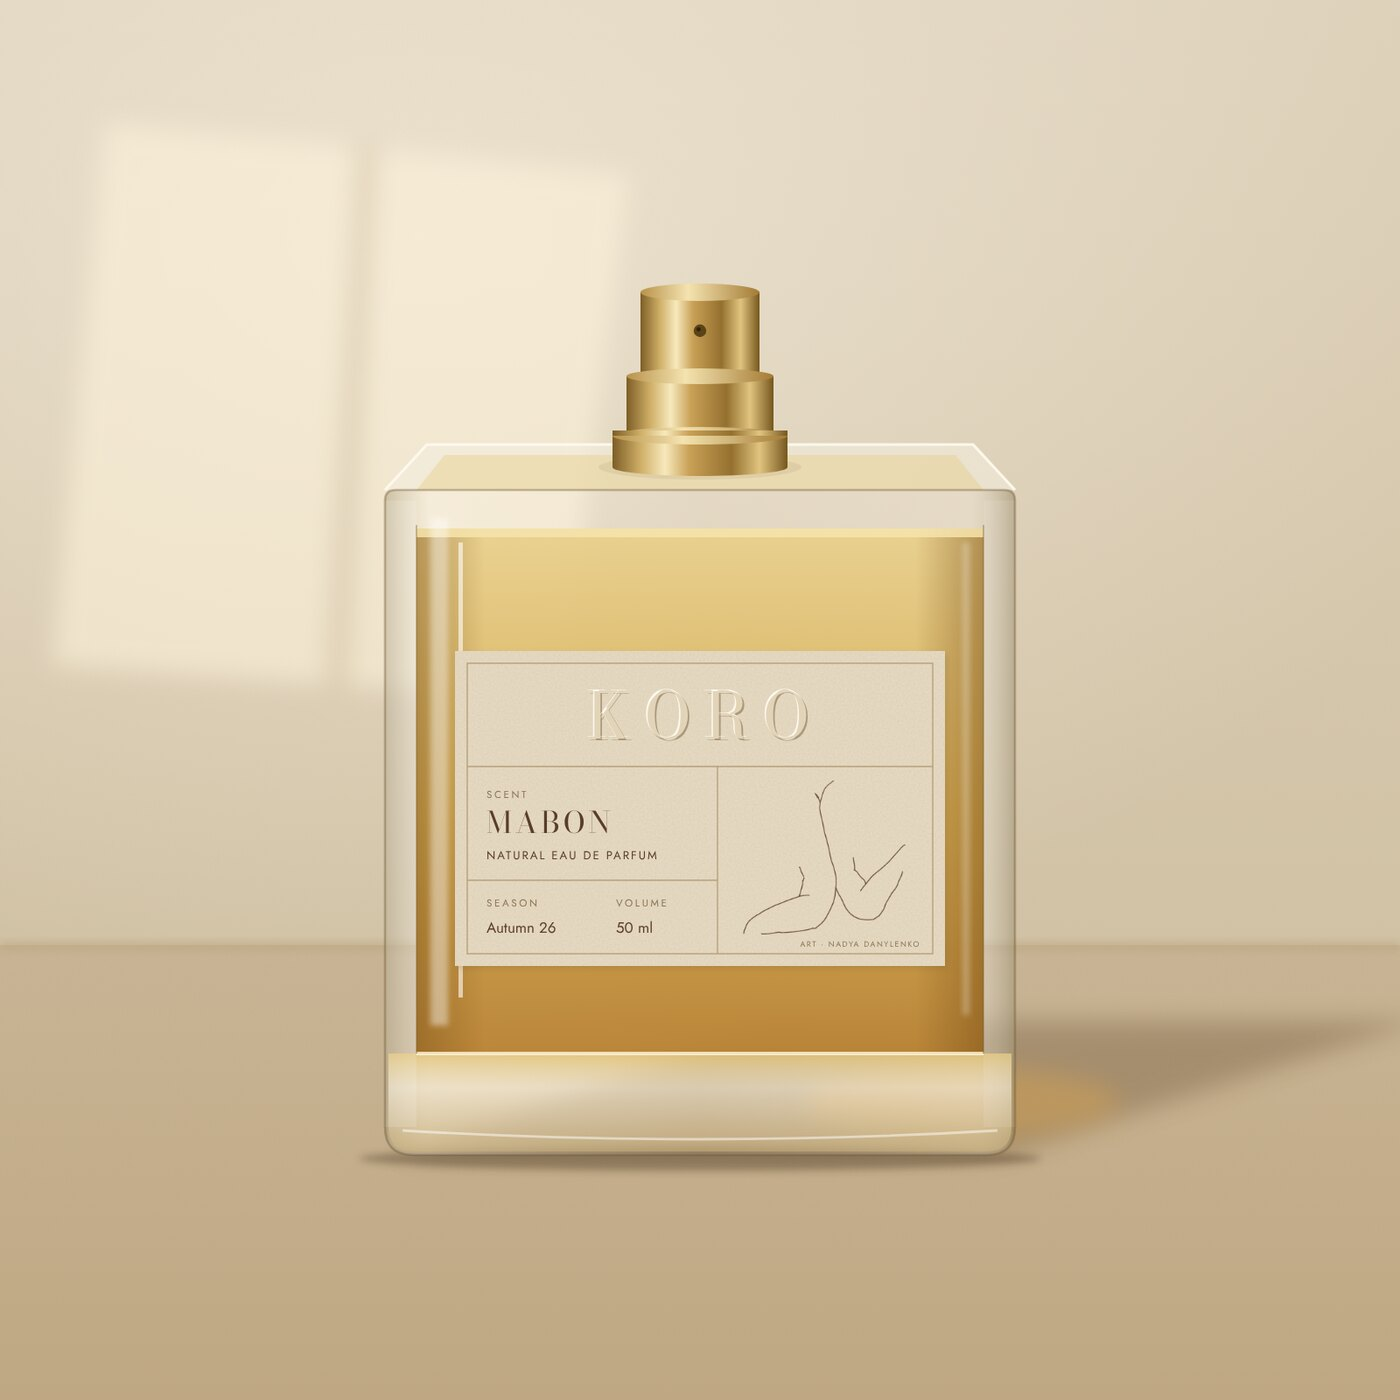
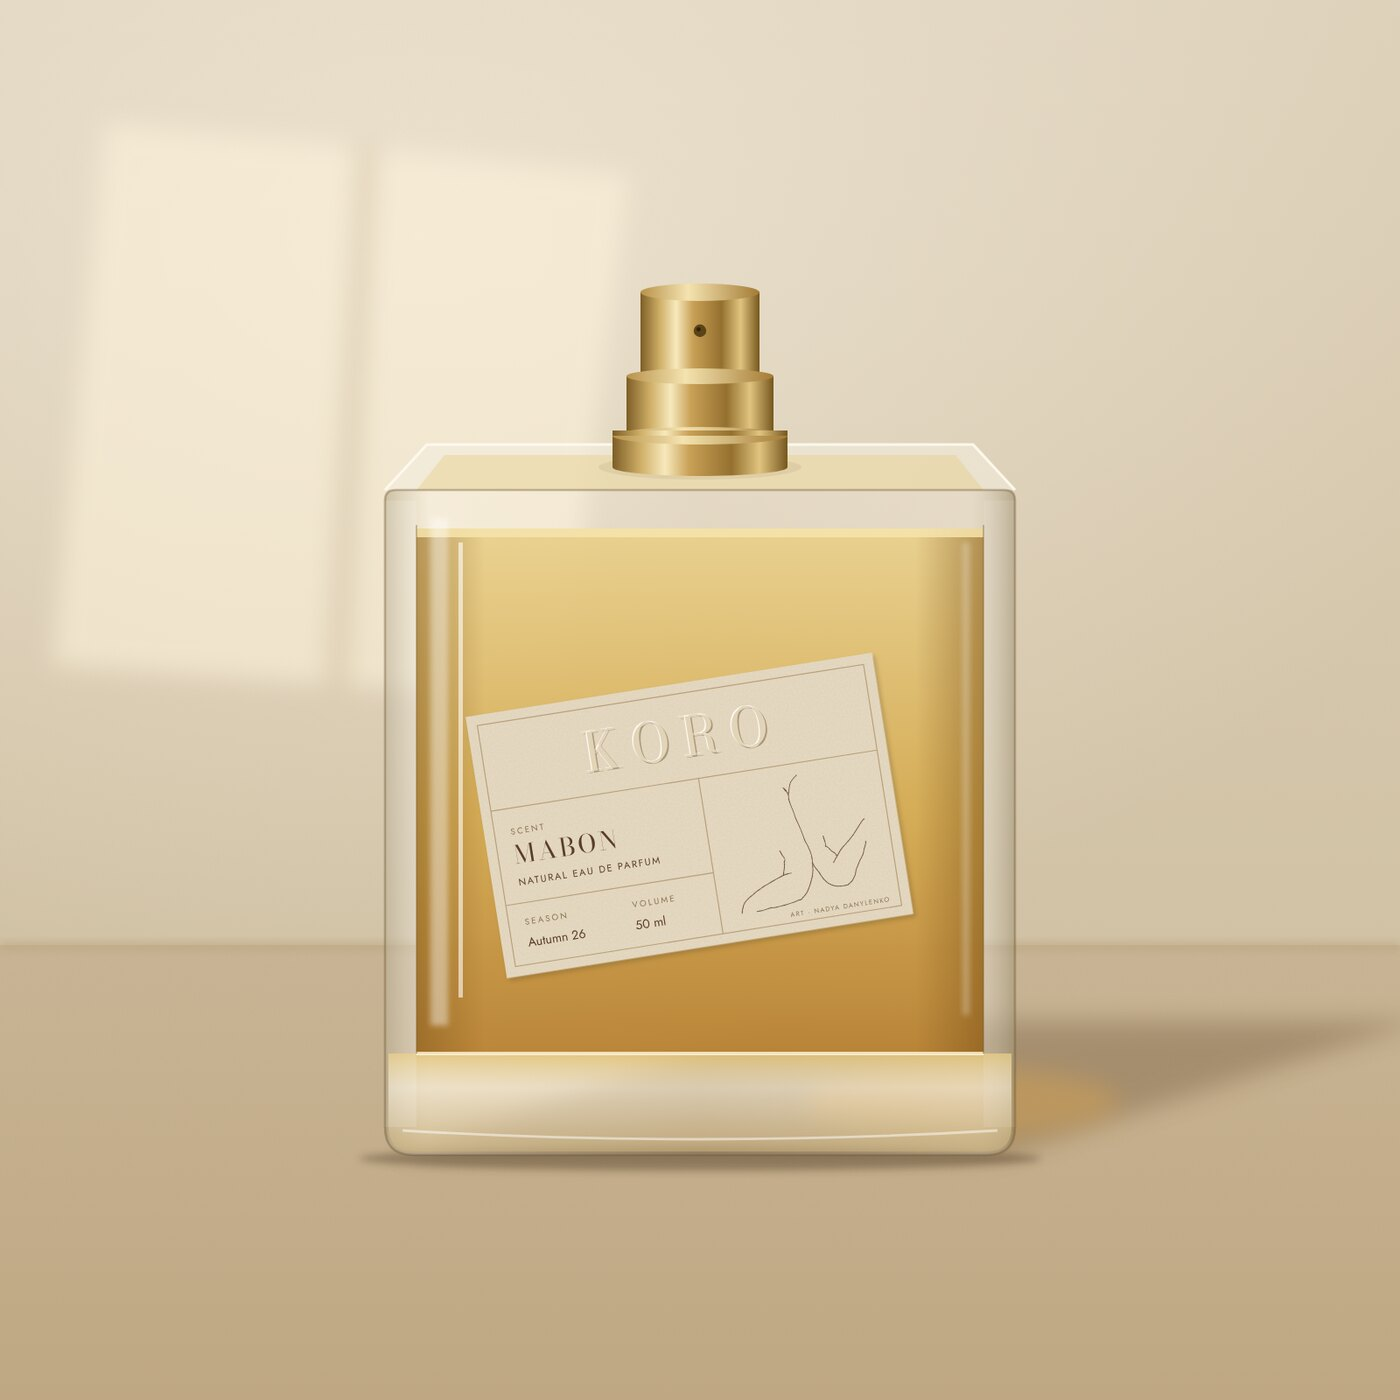
Set the label as a small hand-applied sticker at an angle
Inspired by Nasomatto's square bottles: a smaller beige sticker tilted 9°,
used the same way on the bottle and the kraft box.

Claude-Session: https://claude.ai/code/session_01LqzMwEUPk3cGfVNeK7XBCw

Changed region(s): [[0.3071, 0.4607, 0.6757, 0.7064]]

diff --git a/design/packaging/render.html b/design/packaging/render.html
@@ -92,7 +92,7 @@ function label(scent = "MABON", vol = "50 ml") {
     <text x="${x}" y="${y}" text-anchor="middle" class="didot" font-size="${size}" letter-spacing="${ls}" fill="#e2d4b8">${txt}</text>`;
   return `
   <g>
-    <rect x="1.2" y="1.6" width="${W}" height="${H}" fill="#6b5536" opacity=".18" filter="url(#hl)"/>
+    <rect x="1.6" y="2.2" width="${W}" height="${H}" fill="#4f3c22" opacity=".26" filter="url(#hl)"/>
     <rect width="${W}" height="${H}" fill="#e9ddc6" filter="url(#paper)"/>
     <rect x="7" y="7" width="${W - 14}" height="${H - 14}" fill="none" stroke="${rule}" stroke-width=".7"/>
     ${emb("KORO", W / 2 + 3, 50, 36, 8)}
@@ -142,7 +142,7 @@ function bottle(x, y, s, scent = "MABON") {
     <rect x="42" y="${-H + 30}" width="2.5" height="${H - 120}" fill="#fff" opacity=".6"/>
     <rect x="${W - 30}" y="${-H + 30}" width="4" height="${H - 110}" fill="#fff" opacity=".28" filter="url(#hl)"/>
     <!-- label (on the outer face, above the glass reflections) -->
-    <g transform="translate(40 ${-H + 92})">${label(scent)}</g>
+    <g transform="translate(${cx - 6} ${-H + 186}) rotate(-9) scale(.84) translate(-140 -90)">${label(scent)}</g>
     <!-- outline -->
     <path d="M0 ${-H + 6} Q0 ${-H} 6 ${-H} H${W - 6} Q${W} ${-H} ${W} ${-H + 6} V-16 Q${W} 0 ${W - 16} 0 H16 Q0 0 0 -16 Z" fill="none" stroke="#6b5530" stroke-opacity=".38" stroke-width="1.3"/>
     <!-- neck + gold crimp collar + sprayer (no overcap) -->
@@ -185,7 +185,7 @@ function closedBox(x, y, w, h, scent = "MABON") {
     <rect x="0" y="${-h}" width="5" height="${h - baseBand}" fill="#fff" opacity=".12"/>
     <rect x="${w - 6}" y="${-h}" width="6" height="${h - baseBand}" fill="#3d2a14" opacity=".12"/>
     <!-- label -->
-    <g transform="translate(30 ${-h + h * .3}) scale(${ls})">${label(scent)}</g>
+    <g transform="translate(${w / 2} ${-h + h * .44}) rotate(-9) scale(${ls * .86}) translate(-140 -90)">${label(scent)}</g>
     <!-- printed note -->
     <text x="${w / 2}" y="${-baseBand - 22}" text-anchor="middle" class="sans" font-size="${7 * ls + 2}" letter-spacing="1.4" fill="#4a321c" opacity=".78">KEEP ME IN THE BOX · AWAY FROM LIGHT</text>
   </g>`;
@@ -200,7 +200,7 @@ function lid(x, y, w, h, rot, scent) {
     <path d="M0 ${-h} L${i} ${-h - t} H${w - i} L${w} ${-h} Z" fill="url(#kraftTop)" filter="url(#kraft)"/>
     <rect x="0" y="${-h}" width="${w}" height="${h}" fill="none" stroke="#5e4428" stroke-opacity=".35"/>
     <rect x="${w - 6}" y="${-h}" width="6" height="${h}" fill="#3d2a14" opacity=".12"/>
-    <g transform="translate(30 ${-h + h * .32}) scale(${ls})">${label(scent)}</g>
+    <g transform="translate(${w / 2} ${-h + h * .46}) rotate(-9) scale(${ls * .86}) translate(-140 -90)">${label(scent)}</g>
   </g>`;
 }
 

diff --git a/index.html b/index.html
@@ -226,7 +226,7 @@
       <div class="section-head reveal">
         <p class="eyebrow">The bottle &amp; the box</p>
         <h2 class="display display--md">Our square bottle, newly dressed</h2>
-        <p>We kept the heavy square bottle our perfumes have always lived in, with its thick walls and deep glass base. The label is new: plain beige paper, KORO embossed into it, and a single line by Nadya Danylenko.</p>
+        <p>We kept the heavy square bottle our perfumes have always lived in, with its thick walls and deep glass base. The label is new: a small beige sticker set at a slight angle, as if placed by hand, with KORO embossed into it and a single line by Nadya Danylenko.</p>
       </div>
 
       <figure class="pack-wide reveal">

diff --git a/design/packaging/README.md b/design/packaging/README.md
@@ -3,7 +3,7 @@
 Vector source for the Autumn 26 bottle and box images in `assets/img/koro-*.jpg`.
 
 - **Bottle**: KORO's existing square bottle (shape unchanged), shown without the overcap: gold crimp collar and sprayer.
-- **Label**: beige paper, blind-embossed KORO, scent / season / volume grid, line drawing by Nadya Danylenko (`line-art.png`).
+- **Label**: small beige sticker applied at a 9° tilt (same on bottle and box), beige paper, blind-embossed KORO, scent / season / volume grid, line drawing by Nadya Danylenko (`line-art.png`).
 - **Box**: rigid kraft, two-piece with a lift-off lid, sized to hold the bottle upright and keep it out of daylight.
 
 To change the scent name or volume, edit `label()` / `bottle()` calls in `render.html`, then render:
